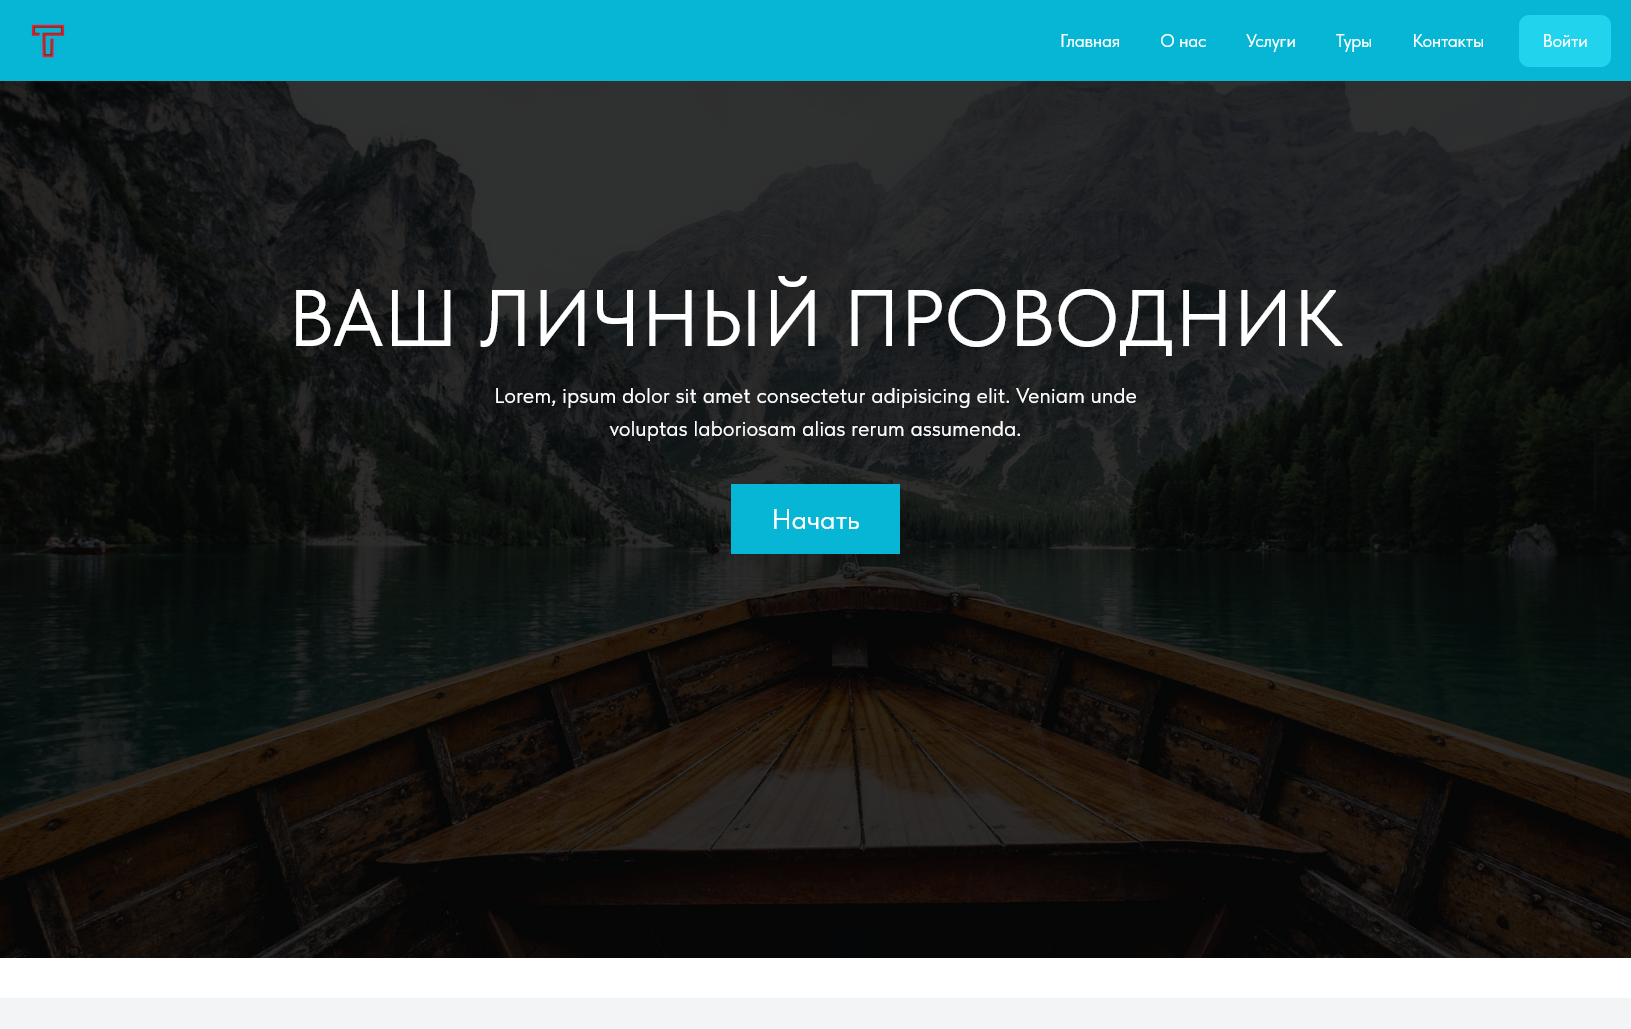
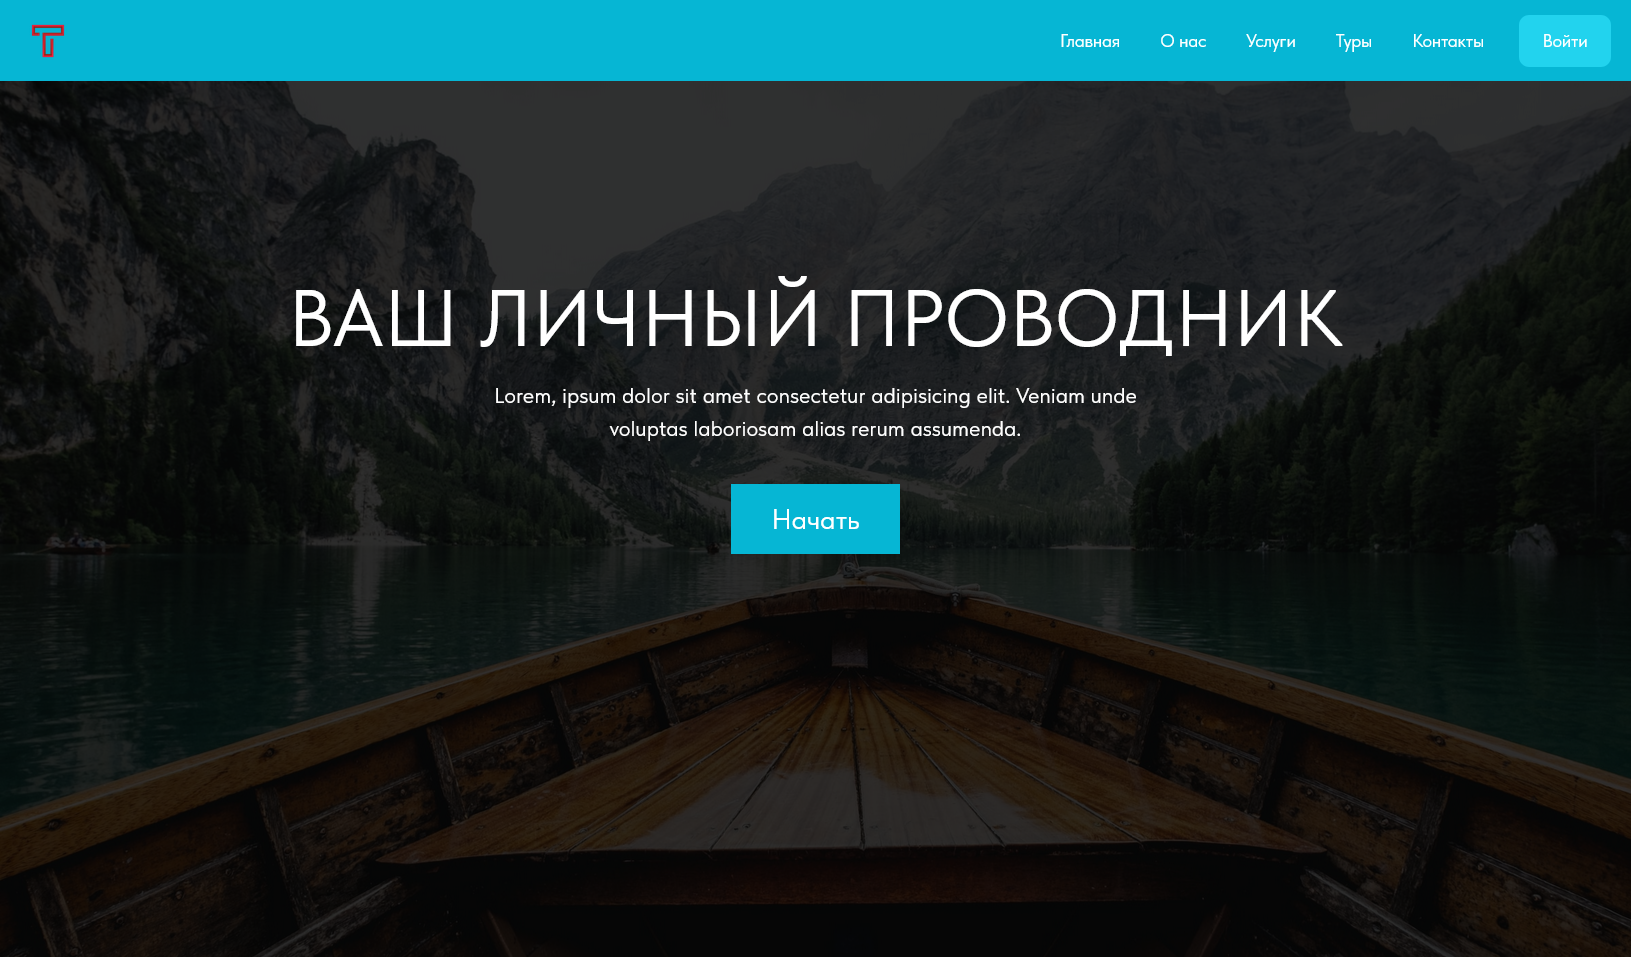
projects page updated

diff --git a/index.html b/index.html
@@ -32,7 +32,7 @@
                 <div class="text-box">
                     <h2>Akzhol Kasymov</h2>
                     <span>Web Developer</span>
-                    <p>Genius(no), Billionaire(ofc), Playboy(ask my homies?), Philanthropist(what is it?)</p>
+                    <p>Genius(no), Billionaire(sure), Playboy(ask my homies?), Philanthropist(what is it?)</p>
                 </div>
                 <div class="hero-pic"><img src="./assets/imgs/img-nobg1.png" alt="me"></div>
             </section>
@@ -60,30 +60,48 @@
                     </pre>
                 </div>
             </section>
-            <!-- <section id="projects">
+            <section class="page" id="projects">
+                <div class="projects-wrapper">
+                    <div class="slider">
+                        <img class="project-img active" src="./assets/imgs/projects/chat-app.png" alt="Chat Web App Screenshot">
+                        <img class="project-img" src="./assets/imgs/projects/travel-app.png" alt="Travel Agency Web App Screenshot">
+                        <img class="project-img" src="./assets/imgs/projects/travel-app2.png" alt="Travel Agency Web App Screenshot 2nd">
+                    </div>
+                    <div class="description">
+                        <h2 id="project-title">Project Title 1</h2>
+                        <p id="project-description">Description of Project 1.</p>
+                        <div class="controls">
+                            <button class="sm-btn" id="prev">Previous</button>
+                            <button class="sm-btn" id="next">Next</button>
+                        </div>
+                    </div>
+                </div>
+            </section>
+
+            <!-- <section class="page" id="projects">
                 <div class="wrapper">
                     <div class="card">
                         <div class="slider">
-                            <img src="./assets/imgs/projects/chat-app.png" alt="Chat Web App Screenshot">
-                            <img src="./assets/imgs/projects/chat-app2.png" alt="Chat Web App Screenshot 2nd">
-                            <img src="./assets/imgs/projects/chat-app3.png" alt="Chat Web App Screenshot 3rd">
-                            <button class="slider-button prev">&lt;</button>
-                            <button class="slider-button next">&gt;</button>
+                            <img class="slider-image active" src="./assets/imgs/projects/chat-app.png" alt="Chat Web App Screenshot">
+                            <img class="slider-image" src="./assets/imgs/projects/chat-app2.png" alt="Chat Web App Screenshot 2nd">
+                            <img class="slider-image" src="./assets/imgs/projects/chat-app3.png" alt="Chat Web App Screenshot 3rd">
+                            <button class="slider-btn prev"><img src="./assets/icons/arrow.svg" width="10" height="10" alt="arrow icon"></button>
+                            <button class="slider-btn next"><img src="./assets/icons/arrow.svg" width="10" height="10" alt="arrow icon"></button>
                         </div>
-                        <div>
+                        <div class="card-info">
                             <h3 class="card-title">Project Title 1</h3>
                             <p class="card-description">Brief description of the project.</p>
                         </div>
                     </div>
                     <div class="card">
                         <div class="slider">
-                            <img src="./assets/imgs/projects/travel-app.png" alt="Travel Agency Web App Screenshot">
-                            <img src="./assets/imgs/projects/travel-app2.png" alt="Travel Agency Web App Screenshot 2nd">
-                            <img src="./assets/imgs/projects/travel-app3.png" alt="Travel Agency Web App Screenshot 3rd">
-                            <button class="slider-button prev">&lt;</button>
-                            <button class="slider-button next">&gt;</button>
+                            <img class="slider-image active" src="./assets/imgs/projects/travel-app.png" alt="Travel Agency Web App Screenshot">
+                            <img class="slider-image" src="./assets/imgs/projects/travel-app2.png" alt="Travel Agency Web App Screenshot 2nd">
+                            <img class="slider-image" src="./assets/imgs/projects/travel-app3.png" alt="Travel Agency Web App Screenshot 3rd">
+                            <button class="slider-btn prev"><img src="./assets/icons/arrow.svg" width="10" height="10" alt="arrow icon"></button>
+                            <button class="slider-btn next"><img src="./assets/icons/arrow.svg" width="10" height="10" alt="arrow icon"></button>
                         </div>
-                        <div>
+                        <div class="card-info">
                             <h3 class="card-title">Project Title 2</h3>
                             <p class="card-description">Brief description of the project.</p>
                         </div>

diff --git a/styles/styles.css b/styles/styles.css
@@ -30,7 +30,7 @@ input[type="reset"] {
 
 body {
     font-family: "One Piece", sans-serif;
-    overflow-x: hidden; 
+    overflow-x: hidden;
     white-space: nowrap;
     height: 100vh;
 }
@@ -89,19 +89,19 @@ header {
     width: 100vw;
     height: 92.6vh;
     scroll-behavior: smooth;
-    scroll-snap-type: x mandatory; 
+    overflow-x: scroll;
+    scroll-snap-type: x mandatory;
     -webkit-overflow-scrolling: touch;
     scroll-behavior: smooth;
 }
+
 .page {
     flex: 0 0 100vw;
-    /* height: 100%; */
     display: flex;
     justify-content: center;
-    font-size: 2rem;
     text-align: center;
-    
 }
+
 
 /*=============================================== CUSTOM UTIL ===============================================*/
 .sm-btn {
@@ -117,13 +117,12 @@ header {
 
 /*=============================================== HERO SECTION ===============================================*/
 #hero {
-    height: 10vh;
     color: #000;
     position: relative;
 
     .text-box {
         height: fit-content;
-        border: 1px solid #000;
+        /* border: 1px solid #000; */
         padding-top: 20vh;
 
         h2 {
@@ -145,23 +144,22 @@ header {
     .hero-pic {
         height: fit-content;
         position: relative;
-        border: 1px solid #000;
+        /* border: 1px solid #000; */
         width: 32vw;
 
-
         >img {
+            margin-top: -6px;
             position: absolute;
-            /* top: -6rem; */
             left: 39%;
         }
 
         /* top: 22.5vh; */
-
     }
 }
 
 /*=============================================== EXPERIENCE SECTION =============================================== */
 #exp {
+    font-size: 20px;
     display: flex;
     flex-direction: column;
     gap: 2rem;
@@ -174,6 +172,7 @@ header {
         align-items: center;
 
         pre {
+            font-size: 17px;
             padding: 0 2rem;
             background-color: #f7f7f7;
             border-radius: var(--border-rd);
@@ -229,76 +228,52 @@ code {
 
 /* =============================================== PROJECTS =============================================*/
 #projects {
-
-    padding: 2rem 5rem;
-
-    .wrapper {
+    .projects-wrapper {
         display: flex;
-        gap: 2rem;
     }
 
-    .card {
-        border: 1px solid #000;
+    .slider {
+        flex: 80%;
+
+        display: flex;
+        position: relative;
+        height: 70vh;
+        width: 60vw;
+        overflow: hidden;
+    }
+
+    .project-img {
+        position: absolute;
+
+        width: 100%;
+        left: 100%;
+        opacity: 0;
+
+        transition: all 0.5s ease-in-out;
+
         border-radius: var(--border-rd);
     }
 
-    .card>div:nth-child(2) {
-        border: 1px solid #000;
-        padding: 10rem;
-        position: absolute;
-    }
-
-
-    .slider {
-        position: relative;
-        width: 100%;
-        height: 200px;
-        /* Fixed height for images */
-        overflow: hidden;
-        border-radius: 8px;
-    }
-
-    .slider-image {
-        width: 100%;
-        height: 100%;
-        object-fit: cover;
-        position: absolute;
-        top: 0;
-        left: 100%;
-        /* Start off-screen */
-        opacity: 0;
-        transition: all 0.5s ease;
-    }
-
-    .slider-image.active {
+    .project-img.active {
         left: 0;
         opacity: 1;
+        z-index: 10;
     }
 
-    /* Slider buttons */
-    .slider-button {
-        position: absolute;
-        top: 50%;
-        transform: translateY(-50%);
-        background-color: rgba(0, 0, 0, 0.5);
-        border: none;
-        color: white;
-        padding: 5px 10px;
-        cursor: pointer;
-        border-radius: 50%;
+    .project-img.previous {
+        left: -100%;
+        opacity: 0.2;
     }
 
-    .slider-button.prev {
-        left: 10px;
+    .project-img.next {
+        left: 100%;
+        opacity: 0.2;
     }
 
-    .slider-button.next {
-        right: 10px;
+    .description {
+        flex: 20%;
     }
 
-    .slider-button:hover {
-        background-color: rgba(0, 0, 0, 0.8);
-    }
 
 
 }

diff --git a/scripts.js b/scripts.js
@@ -113,28 +113,69 @@ function foldDiv(event, action) {
 
 
 /* =============================================== PROJECTS.JS ======================================================*/
-document.querySelectorAll('.card').forEach(card => {
-    const images = card.querySelectorAll('.slider-image');
-    const prevButton = card.querySelector('.slider-button.prev');
-    const nextButton = card.querySelector('.slider-button.next');
-    let current = 0;
-  
-    const updateSlider = (index) => {
-      images.forEach((img, i) => {
-        img.classList.toggle('active', i === index);
-      });
-    };
-  
-    prevButton.addEventListener('click', () => {
-      current = (current - 1 + images.length) % images.length;
-      updateSlider(current);
-    });
-  
-    nextButton.addEventListener('click', () => {
-      current = (current + 1) % images.length;
-      updateSlider(current);
-    });
-  
-    updateSlider(current);
-  });
-  
+// document.querySelectorAll('.card').forEach(card => {
+//     const images = card.querySelectorAll('.slider-image');
+//     const prevButton = card.querySelector('.slider-btn.prev');
+//     const nextButton = card.querySelector('.slider-btn.next');
+//     let current = 0;
+
+//     const updateSlider = (index) => {
+//       images.forEach((img, i) => {
+//         img.classList.toggle('active', i === index);
+//       });
+//     };
+
+//     prevButton.addEventListener('click', () => {
+//       current = (current - 1 + images.length) % images.length;
+//       updateSlider(current);
+//     });
+
+//     nextButton.addEventListener('click', () => {
+//       current = (current + 1) % images.length;
+//       updateSlider(current);
+//     });
+
+//     updateSlider(current);
+//   });
+
+const images = document.querySelectorAll('.project-img')
+const title = document.getElementById('project-title');
+const description = document.getElementById('project-description');
+const prevBtn = document.getElementById('prev')
+const nextBtn = document.getElementById('next')
+
+const projects = [
+    { title: 'Project Title 1', description: 'Description of Project 1.' },
+    { title: 'Project Title 2', description: 'Description of Project 2.' },
+    { title: 'Project Title 3', description: 'Description of Project 3.' },
+];
+
+let current = 0;
+
+function slide(index) {
+    images.forEach((img, i) => {
+        img.classList.remove('active', 'previous', 'next')
+
+        if (i === index) {
+            img.classList.add('active')
+        } else if (i === (index + 1) % images.length) {
+            img.classList.add('next')
+        } else if (i === (index - 1 + images.length) % images.length) {
+            img.classList.add('previous')
+        }
+    })
+}
+prevBtn.addEventListener('click', () => {
+    current = (current - 1 + images.length) % images.length;
+    console.log('prev btn');
+    slide(current);
+});
+
+nextBtn.addEventListener('click', () => {
+    current = (current + 1) % images.length;
+    console.log('next btn');
+    slide(current);
+});
+
+// init
+slide(current)
